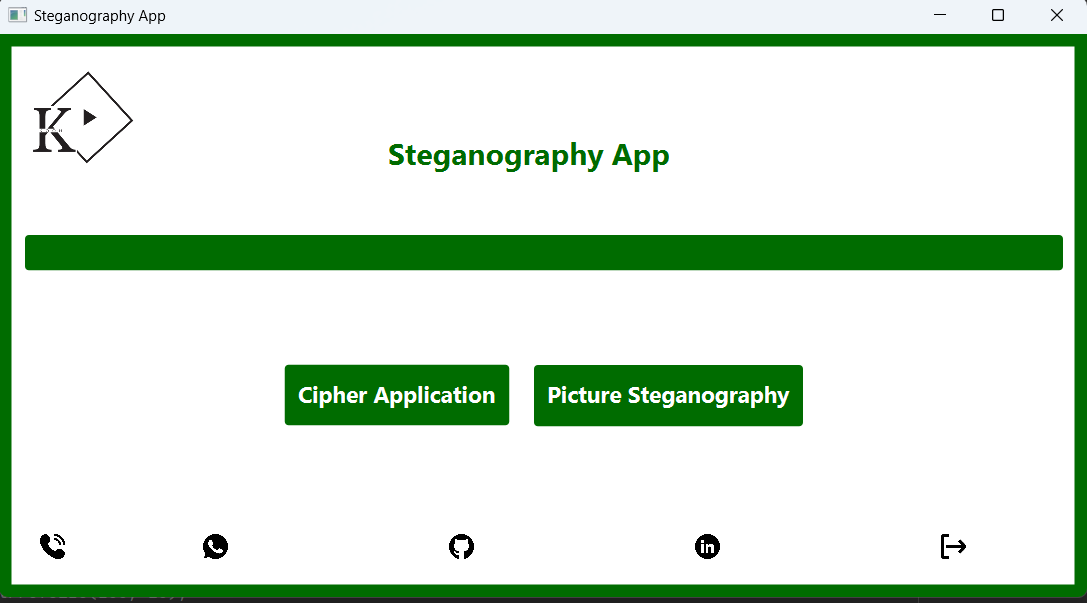
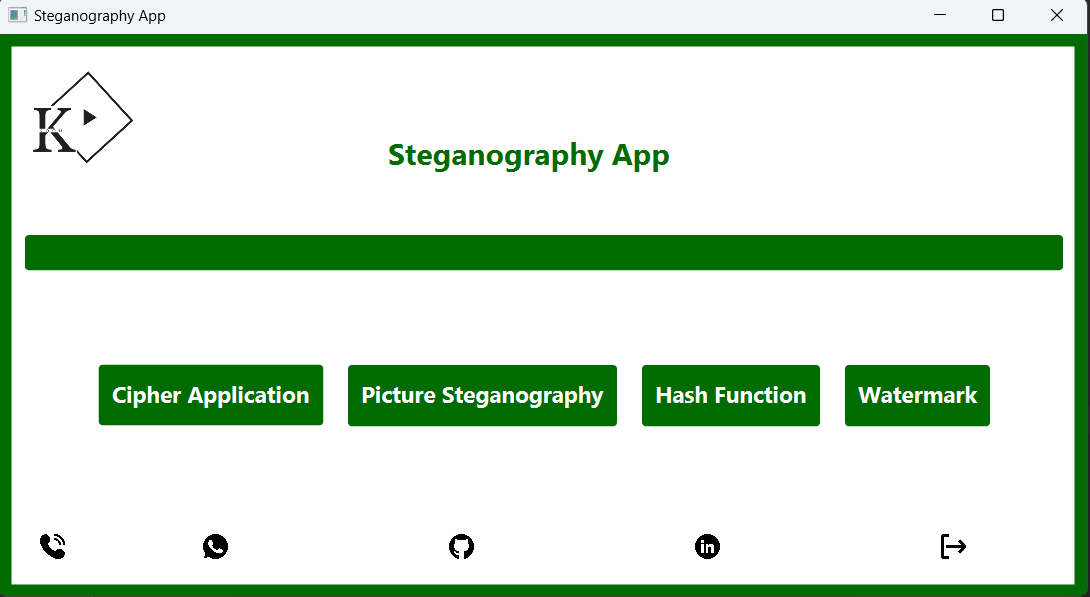
Updates

diff --git a/src/main/java/project/steganography/HashFunction.java b/src/main/java/project/steganography/HashFunction.java
@@ -127,6 +127,7 @@ public class HashFunction extends Application {
             byte[] messageHash = createHash(message.getBytes());
             double[][] hashedMatrix = multiplyMatrix(matrix, messageHash);
 
+
             // Hash the resulting matrix
             byte[] hash = createHash(toString(hashedMatrix).getBytes());
 

diff --git a/README.md b/README.md
@@ -77,6 +77,14 @@ Java implementation of steganography algorithms in a simple GUI. The GUI is writ
 
    ![imageSteg.png](src/main/resources/project/steganography/images/ImageSteg2.png)
 
+**4. Hash Function**
+
+   ![imageSteg.png](src/main/resources/project/steganography/images/Hash.png)
+
+**5. Watermarking**
+
+   ![imageSteg.png](src/main/resources/project/steganography/images/watermark.png)
+
 ## Video Demonstration
 
 Watch the video <a href="https://www.youtube.com/watch?v=AnD8wIUAcB0">here</a>
